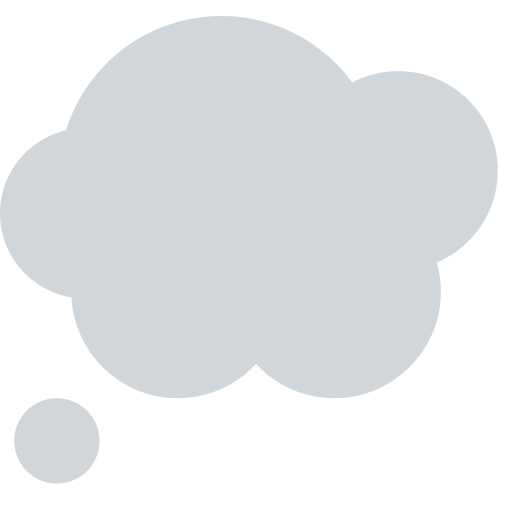
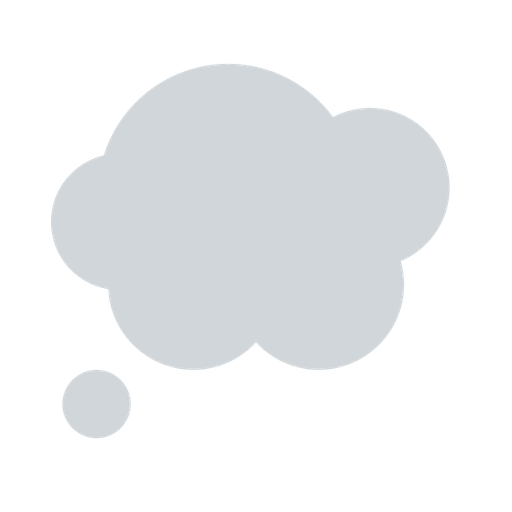
fix: 앱 아이콘 여백 추가로 iPad 홈 화면에서 덜 크게 보이게 (#36)
* revert: icon-btn CSS 변경 되돌리기

* fix: 앱 아이콘 여백 추가 (10% padding)

---------

Changed region(s): [[0.0, 0.0312, 1.0, 0.9688]]

diff --git a/client/src/styles/global.css b/client/src/styles/global.css
@@ -11,8 +11,6 @@
   --shadow: 0 1px 3px rgba(0, 0, 0, 0.08), 0 4px 12px rgba(0, 0, 0, 0.06);
   font-family: -apple-system, BlinkMacSystemFont, 'Segoe UI', Roboto, 'Apple SD Gothic Neo',
     'Noto Sans KR', sans-serif;
-  /* iOS/iPad 다크모드 자동 적용 방지 */
-  color-scheme: light;
 }
 
 * {
@@ -243,11 +241,10 @@ button {
   gap: 8px;
 }
 
-/* 흑백 아이콘 버튼 */
+/* 흑백 아이콘 버튼: 배경·테두리 없음 */
 .icon-btn {
-  background: rgba(255, 255, 255, 0.9);
+  background: transparent;
   border: none;
-  border-radius: 8px;
   padding: 6px;
   color: #2b2f36;
   display: inline-flex;